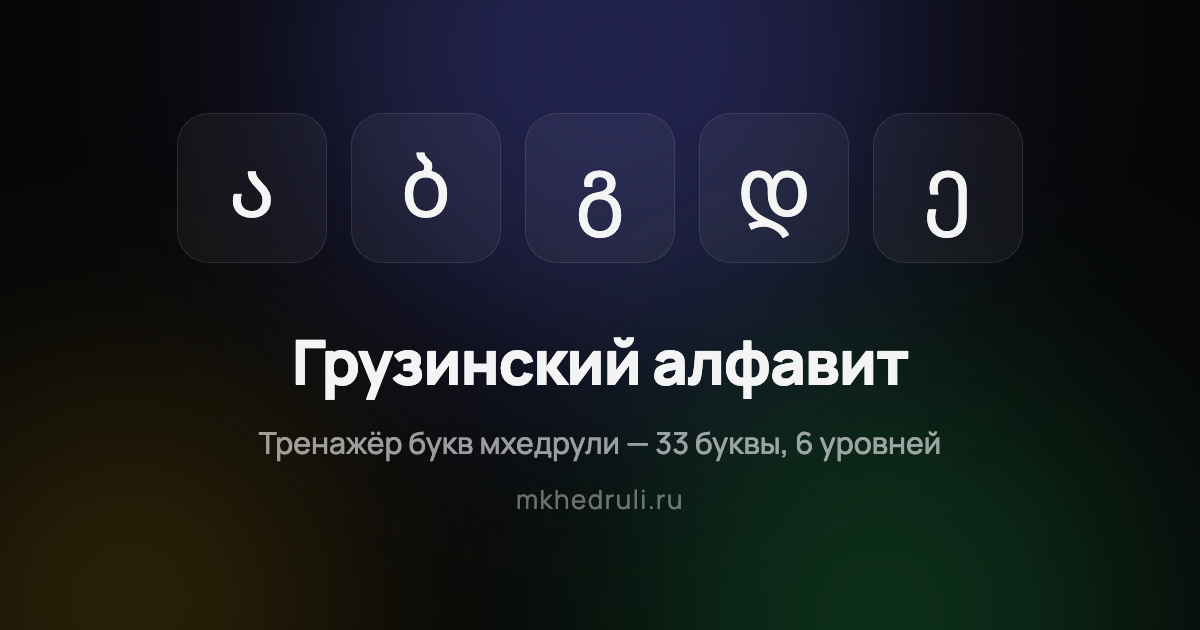
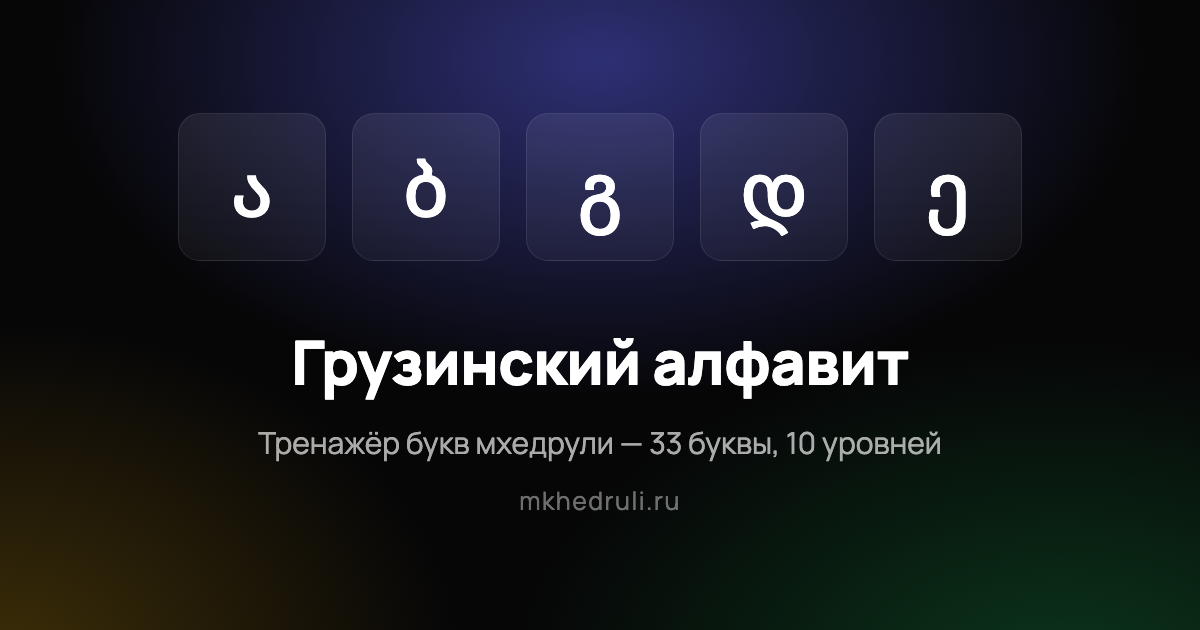
Cover all 33 letters in the trainer
The six levels stopped at 20 letters: ზ ჟ შ ხ, the affricates ძ ჯ წ ც ჭ ჩ
and ღ ყ ჰ were only in the reference table. Four new levels bring them in
— familiar sounds, all abruptive/aspirated pairs, affricates, and sounds
with no Russian equivalent — and the last level is now the full alphabet.

ხ and ჰ were both transcribed "х", which would have collided as answer
ids. Sounds missing from Russian now carry a hard sign — ღ «гъ», ყ «къ»,
ჰ «хъ» — and letter names follow the same notation, so პ/ფ, კ/ქ and
გ/ღ no longer share a name.

Trainer levels now pick their letters from ALPHABET, so each
transcription lives in one place. Page copy, FAQ and og.png are updated
for ten levels.

Claude-Session: https://claude.ai/code/session_01QahssEXyJMKae9ga69gC5D

diff --git a/src/components/react/Georgian/letters.ts b/src/components/react/Georgian/letters.ts
@@ -12,56 +12,8 @@ export interface Level {
   pairs?: readonly LetterPair[];
 }
 
-const VOWELS: readonly Letter[] = [
-  { ka: "ა", ru: "а" },
-  { ka: "ე", ru: "э" },
-  { ka: "ი", ru: "и" },
-  { ka: "ო", ru: "о" },
-  { ka: "უ", ru: "у" },
-];
-
-const CONSONANTS: readonly Letter[] = [
-  { ka: "მ", ru: "м" },
-  { ka: "ნ", ru: "н" },
-  { ka: "რ", ru: "р" },
-  { ka: "ს", ru: "с" },
-  { ka: "ლ", ru: "л" },
-  { ka: "ვ", ru: "в" },
-  { ka: "ბ", ru: "б" },
-  { ka: "დ", ru: "д" },
-  { ka: "გ", ru: "г" },
-];
-
-const STOP_PAIRS: readonly LetterPair[] = [
-  [
-    { ka: "ტ", ru: "т" },
-    { ka: "თ", ru: "тх" },
-  ],
-  [
-    { ka: "კ", ru: "к" },
-    { ka: "ქ", ru: "кх" },
-  ],
-  [
-    { ka: "პ", ru: "п" },
-    { ka: "ფ", ru: "пх" },
-  ],
-];
-
-const STOPS: readonly Letter[] = STOP_PAIRS.flat();
-
-export const LEVELS: readonly Level[] = [
-  { id: "vowels", label: "Уровень 1 — Гласные", letters: VOWELS },
-  { id: "consonants", label: "Уровень 2 — Частые согласные", letters: CONSONANTS },
-  { id: "mixed", label: "Уровень 3 — Гласные и согласные", letters: [...VOWELS, ...CONSONANTS] },
-  { id: "stops", label: "Уровень 4 — Смычные парами", letters: STOPS, pairs: STOP_PAIRS },
-  { id: "single-stops", label: "Уровень 5 — Смычные поодиночке", letters: STOPS },
-  { id: "all", label: "Уровень 6 — Всё пройденное", letters: [...VOWELS, ...CONSONANTS, ...STOPS] },
-] as const;
-
-export interface AlphabetEntry {
-  ka: string;
+export interface AlphabetEntry extends Letter {
   name: string;
-  ru: string;
   note: string;
 }
 
@@ -73,7 +25,7 @@ export const ALPHABET: readonly AlphabetEntry[] = [
   { ka: "ე", name: "эни", ru: "э", note: "всегда «э», никогда не смягчает согласную" },
   { ka: "ვ", name: "вини", ru: "в", note: "" },
   { ka: "ზ", name: "зени", ru: "з", note: "" },
-  { ka: "თ", name: "тани", ru: "тх", note: "с придыханием, как в английском top" },
+  { ka: "თ", name: "тхани", ru: "тх", note: "с придыханием, как в английском top" },
   { ka: "ი", name: "ини", ru: "и", note: "" },
   { ka: "კ", name: "кани", ru: "к", note: "резкий, без выдоха (абруптив)" },
   { ka: "ლ", name: "ласи", ru: "л", note: "" },
@@ -86,17 +38,64 @@ export const ALPHABET: readonly AlphabetEntry[] = [
   { ka: "ს", name: "сани", ru: "с", note: "" },
   { ka: "ტ", name: "тари", ru: "т", note: "резкий, без выдоха (абруптив)" },
   { ka: "უ", name: "уни", ru: "у", note: "" },
-  { ka: "ფ", name: "пари", ru: "пх", note: "с придыханием, как в английском pen" },
-  { ka: "ქ", name: "кани", ru: "кх", note: "с придыханием, как в английском cat" },
-  { ka: "ღ", name: "гани", ru: "гх", note: "звонкое горловое «г», как украинское «г»" },
+  { ka: "ფ", name: "пхари", ru: "пх", note: "с придыханием, как в английском pen" },
+  { ka: "ქ", name: "кхани", ru: "кх", note: "с придыханием, как в английском cat" },
+  { ka: "ღ", name: "гъани", ru: "гъ", note: "звонкое горловое «г», как южнорусское «г» или французское r" },
   { ka: "ყ", name: "къари", ru: "къ", note: "гортанный, произносится глубоко в горле" },
   { ka: "შ", name: "шини", ru: "ш", note: "" },
-  { ka: "ჩ", name: "чини", ru: "чх", note: "с придыханием" },
-  { ka: "ც", name: "цани", ru: "цх", note: "с придыханием" },
+  { ka: "ჩ", name: "чхини", ru: "чх", note: "с придыханием" },
+  { ka: "ც", name: "цхани", ru: "цх", note: "с придыханием" },
   { ka: "ძ", name: "дзили", ru: "дз", note: "слитный звук" },
   { ka: "წ", name: "цили", ru: "ц", note: "резкий, без выдоха (абруптив)" },
   { ka: "ჭ", name: "чари", ru: "ч", note: "резкий, без выдоха (абруптив)" },
-  { ka: "ხ", name: "хани", ru: "х", note: "" },
+  { ka: "ხ", name: "хани", ru: "х", note: "глубже и резче русского «х»" },
   { ka: "ჯ", name: "джани", ru: "дж", note: "слитный звук" },
-  { ka: "ჰ", name: "хае", ru: "х", note: "лёгкий выдох, как английское h" },
+  { ka: "ჰ", name: "хъае", ru: "хъ", note: "лёгкий выдох, мягче русского «х», как английское h" },
+] as const;
+
+const BY_KA = new Map(ALPHABET.map((entry) => [entry.ka, entry]));
+
+const pick = (...ka: string[]): Letter[] =>
+  ka.map((letter) => {
+    const entry = BY_KA.get(letter);
+    if (!entry) throw new Error(`Letter ${letter} is missing from ALPHABET`);
+    return entry;
+  });
+
+const pickPair = (abruptive: string, aspirated: string): LetterPair => {
+  const [first, second] = pick(abruptive, aspirated);
+  return [first, second];
+};
+
+const VOWELS = pick("ა", "ე", "ი", "ო", "უ");
+const CONSONANTS = pick("მ", "ნ", "რ", "ს", "ლ", "ვ", "ბ", "დ", "გ");
+
+const STOP_PAIRS = [pickPair("ტ", "თ"), pickPair("კ", "ქ"), pickPair("პ", "ფ")];
+const STOPS = STOP_PAIRS.flat();
+
+const FRICATIVES = pick("ზ", "ჟ", "შ", "ხ");
+const VOICED_AFFRICATES = pick("ძ", "ჯ");
+
+const AFFRICATE_PAIRS = [pickPair("წ", "ც"), pickPair("ჭ", "ჩ")];
+const AFFRICATES = [...AFFRICATE_PAIRS.flat(), ...VOICED_AFFRICATES];
+
+const ALL_PAIRS = [...STOP_PAIRS, ...AFFRICATE_PAIRS];
+
+const UNFAMILIAR = pick("ღ", "ყ", "ჰ");
+
+export const LEVELS: readonly Level[] = [
+  { id: "vowels", label: "Уровень 1 — Гласные", letters: VOWELS },
+  { id: "consonants", label: "Уровень 2 — Частые согласные", letters: CONSONANTS },
+  { id: "mixed", label: "Уровень 3 — Гласные и согласные", letters: [...VOWELS, ...CONSONANTS] },
+  { id: "stops", label: "Уровень 4 — Смычные парами", letters: STOPS, pairs: STOP_PAIRS },
+  { id: "single-stops", label: "Уровень 5 — Смычные поодиночке", letters: STOPS },
+  { id: "familiar", label: "Уровень 6 — Знакомые звуки", letters: [...FRICATIVES, ...VOICED_AFFRICATES] },
+  { id: "all-pairs", label: "Уровень 7 — Все пары", letters: ALL_PAIRS.flat(), pairs: ALL_PAIRS },
+  { id: "affricates", label: "Уровень 8 — Аффрикаты", letters: AFFRICATES },
+  {
+    id: "unfamiliar",
+    label: "Уровень 9 — Звуки без аналогов",
+    letters: [...UNFAMILIAR, ...pick("გ", "კ", "ქ", "ხ")],
+  },
+  { id: "all", label: "Уровень 10 — Весь алфавит", letters: ALPHABET },
 ] as const;

diff --git a/src/data/faq.ts b/src/data/faq.ts
@@ -22,7 +22,7 @@ export const FAQ_ITEMS: readonly FaqItem[] = [
   },
   {
     q: "Чем отличаются буквы ტ и თ, კ и ქ, პ и ფ?",
-    a: "Это пары смычных согласных. Первая буква в паре — абруптив: звук произносится резко, без выдоха (ტ ≈ т, კ ≈ к, პ ≈ п). Вторая — придыхательная: после звука идёт заметный выдох, поэтому в тренажёре она обозначена как тх, кх и пх.",
+    a: "Это пары смычных согласных. Первая буква в паре — абруптив: звук произносится резко, без выдоха (ტ ≈ т, კ ≈ к, პ ≈ п). Вторая — придыхательная: после звука идёт заметный выдох, поэтому в тренажёре она обозначена как тх, кх и пх. Так же устроены аффрикаты: წ ≈ ц и ჭ ≈ ч — резкие, ც и ჩ — придыхательные (цх, чх).",
   },
   {
     q: "Нужно ли учить порядок букв в алфавите?",

diff --git a/README.md b/README.md
@@ -16,8 +16,9 @@ make verify    # astro check + production build
 
 The site targets Russian-language search, so all page copy lives in Russian.
 
-- `src/components/react/Georgian/letters.ts` — trainer levels plus `ALPHABET`, the
-  reference table of all 33 letters rendered under the trainer.
+- `src/components/react/Georgian/letters.ts` — `ALPHABET`, the reference table of all
+  33 letters rendered under the trainer, and the trainer levels, which pick their letters
+  from it so each transcription is defined once.
 - `src/data/faq.ts` — single source for both the visible FAQ and the `FAQPage`
   JSON-LD, so the two can never drift apart.
 - `src/pages/index.astro` — builds the schema.org `@graph` (WebSite, WebApplication,
